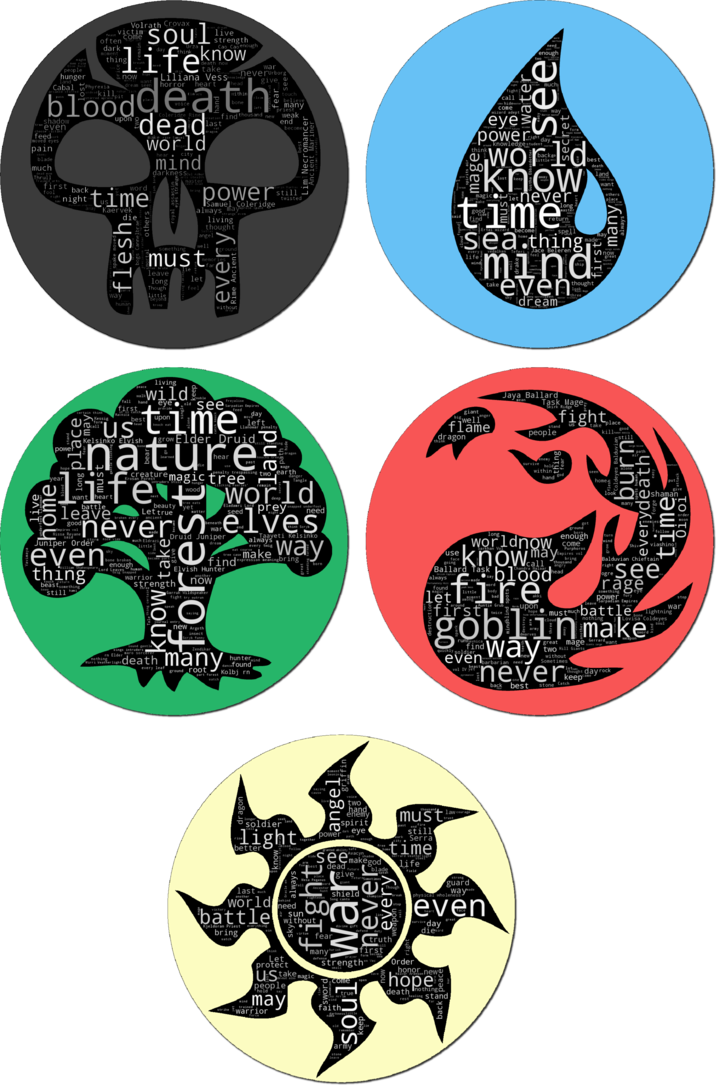
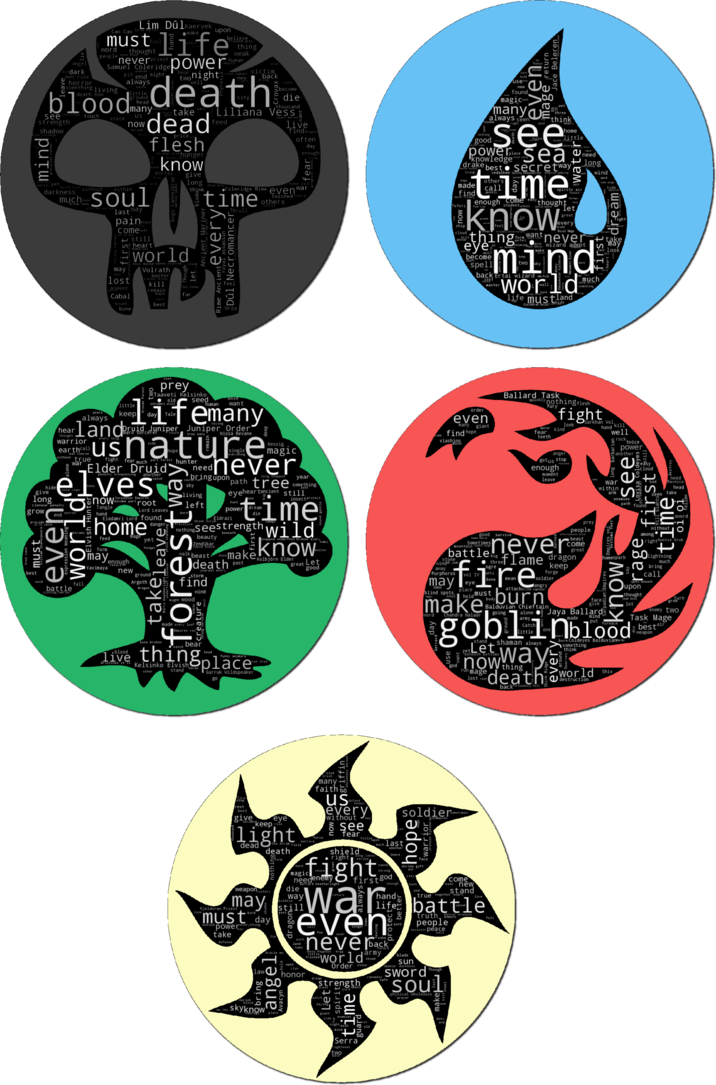
mtg blogpost

diff --git a/_posts/2017-04-02-mtg-flavor.md b/_posts/2017-04-02-mtg-flavor.md
@@ -5,6 +5,9 @@ permalink: /page/color-of-text-mtg.html
 excerpt_separator: <!--more-->
 published: false
 ---
+
+###Introduction
+
 *Magic: The Gathering* is the grandfather of all trading card games. Set in a
 magical world, it offers five factions to the player to choose from, which are
 pragmatically named after one of five colors (black, green, white, blue, red).
@@ -14,39 +17,40 @@ Typical cards look like these:
 ![](http://gatherer.wizards.com/Handlers/Image.ashx?multiverseid=194323&type=card)![](http://gatherer.wizards.com/Handlers/Image.ashx?multiverseid=266050&type=card)![](http://gatherer.wizards.com/Handlers/Image.ashx?multiverseid=253566&type=card)![](http://gatherer.wizards.com/Handlers/Image.ashx?multiverseid=366325&type=card)![](http://gatherer.wizards.com/Handlers/Image.ashx?multiverseid=389425&type=card)
 
 If you look at the above cards, you'll notice that all of them have a small italic
-portion in their text boxes. These so-called *flavor texts*, which are often some
-made-up quote, are not important for the
+portion in their text boxes. These so-called *flavor texts* are not important for the
 game mechanics at all, but, like the images, only add to the look and feel of the game.
 
 In addition, each faction has its own theme which I found summarized at [Gamepedia](http://mtg.gamepedia.com/Color):
 
-* White: Peace, law, structured, selflessness, equality
-* Red: Freedom, emotion, active, impulsive, destructive
 * Blue: Knowledge, deceit, cautious, deliberate, perfecting
-* Green: Nature, wildlife, connected, spiritual, tradition
 * Black: Power, self-interest, death, sacrifice, uninhibited
+* White: Peace, law, structured, selflessness, equality
+* Green: Nature, wildlife, connected, spiritual, tradition
+* Red: Freedom, emotion, active, impulsive, destructive
 
-It seems reasonable to expect that the mood of the flavor texts are related to each color's theme---can
-you guess which color these flavor texts are?[^Solution]
+It seems reasonable to expect that the mood of the flavor texts are related to each color's theme---
+try, for example, to guess which color these flavor texts are:[^Solution]
 
 * *Zombies mourn for the living and celebrate those who will soon be given the gift of death.*
-* *A werewolf's howl is terrifying, to be sure. But this... this was a chilling sound I somehow felt. I fear what will reply to it."
-—Alena, trapper of Kessig*
-* *"Barbarians! They burned my favorite chair! We'll kill them all!"*
-—Anje Falkenrath
-* *"I came seeking a challenge. All I found was you." —Zurgo, khan of the Mardu*
+* *"A werewolf's howl is terrifying, to be sure. But this... this was a chilling sound I somehow felt. I fear what will reply to it."*
+—Alena, trapper of Kessig
+* *"Barbarians! They burned my favorite chair! We'll kill them all!"* —Anje Falkenrath
+* *"I came seeking a challenge. All I found was you."* —Zurgo, khan of the Mardu
 
 Of course, some of these are more obvious than others, and it might help if you have actually played the
 game a bit.
 
 But let's see if what we can learn about a card's color from its flavor text using statistics and machine learning.
 
+### A first look at the data
+
 There are about 16,000
 *Magic* cards in total[^1], but some of these are colorless or multi-colored. Discarding these cards
 (and those without flavor texts), I collected all flavor texts of 1781 red, 1711 black, 1642 blue, 1732 green,
-and 1824 white cards.
+and 1824 white cards, which amount to a total of 8690 documents.
 
-Here are the top five words occuring in each color's flavor text:
+Here are the top five words occuring in each color's flavor text and the number of times they
+appear in the word corpus of that color:
 
 | Blue       | Black       | White      | Green       | Red          |
 |------------|-------------|------------|-------------|--------------|
@@ -56,14 +60,21 @@ Here are the top five words occuring in each color's flavor text:
 | see (54)   | blood (54)  | light (65) | elves (63)  | never (53)   |
 | world (50) | would (53)  | us (63)    | world (60)  | blood (53)   |
 
-Here, I have removed very common words (stopwords) such as "the", "of", "to", "a", "and", "in", etc. You'd probably
-agree that these top words capture a certain mood and are somewhat related to each color's theme.
+Here, I have removed very common words (known as "stop words") such as "the", "of", "to", "a", "and", "in", etc. As one might expect,
+the card creators adjust the flavor texts to the card's color and use them to create a certain mood related to each
+faction's themes.
 <!--- At the same time,these top words only appear on between 17% to 22% of a color's total cards. --->
 
-A popular way to display the importance of certain words in a body of text are [word clouds](https://en.wikipedia.org/wiki/Tag_cloud):
+A popular way to display the importance of certain words in a body of text are [word clouds](https://en.wikipedia.org/wiki/Tag_cloud).
+In these images, the size of a word is adjusted to the frequency with which they occur (the font color carries no meaning).
+
 ![../image/mtg_wordcloud.png](../image/mtg_wordcloud_sm.png)
 
-I put them in the shape of their respective color's *mana symbol*, just because I can. You can download high-resolution images from here.
+I put them in the shape of their respective color's *mana symbol*, just because. You can download high-resolution images from here.
+
+The word clouds contain many more words than the tabular representation above but it's easy to get a feeling for the most important
+words for each color.
+??Why is goblins not in the red wordcloud??
 
 
 [^Solution] They're black, green, red, white.
